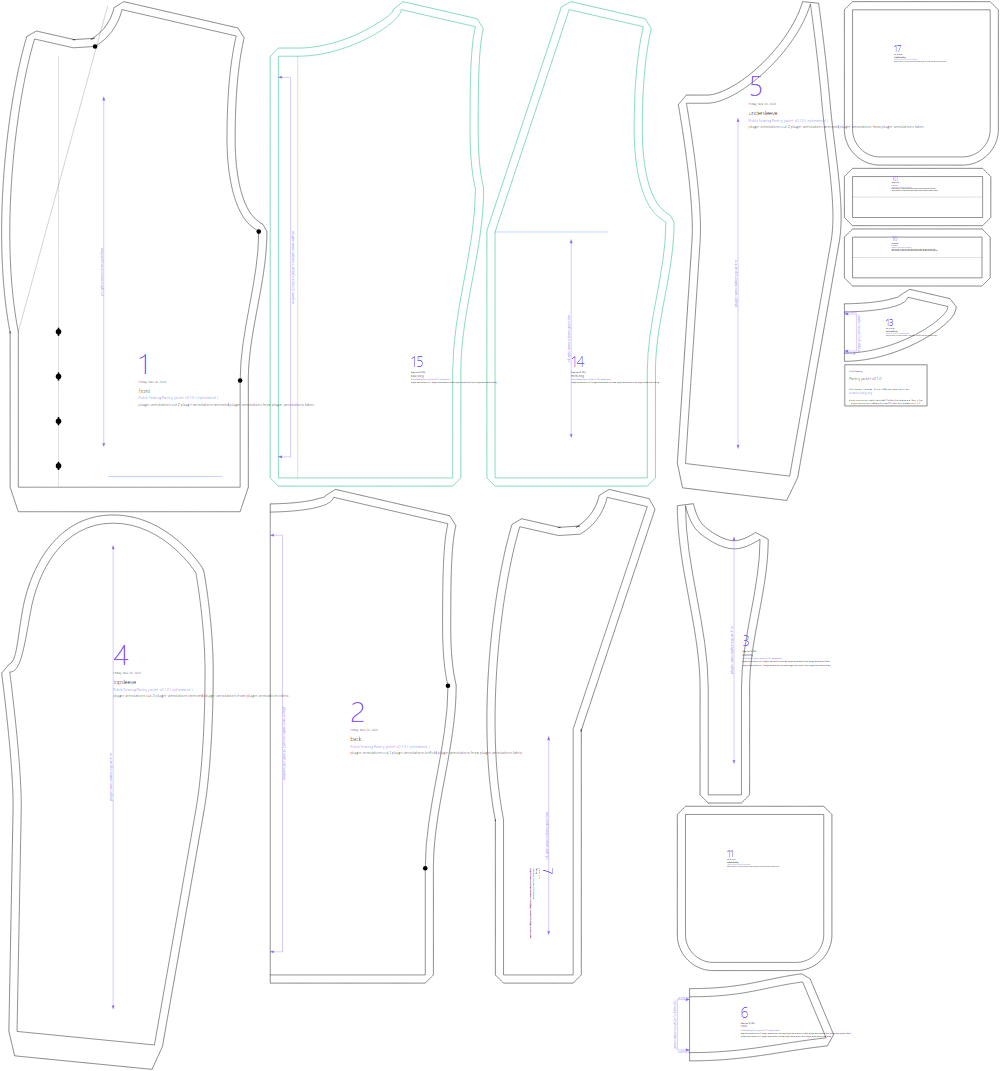
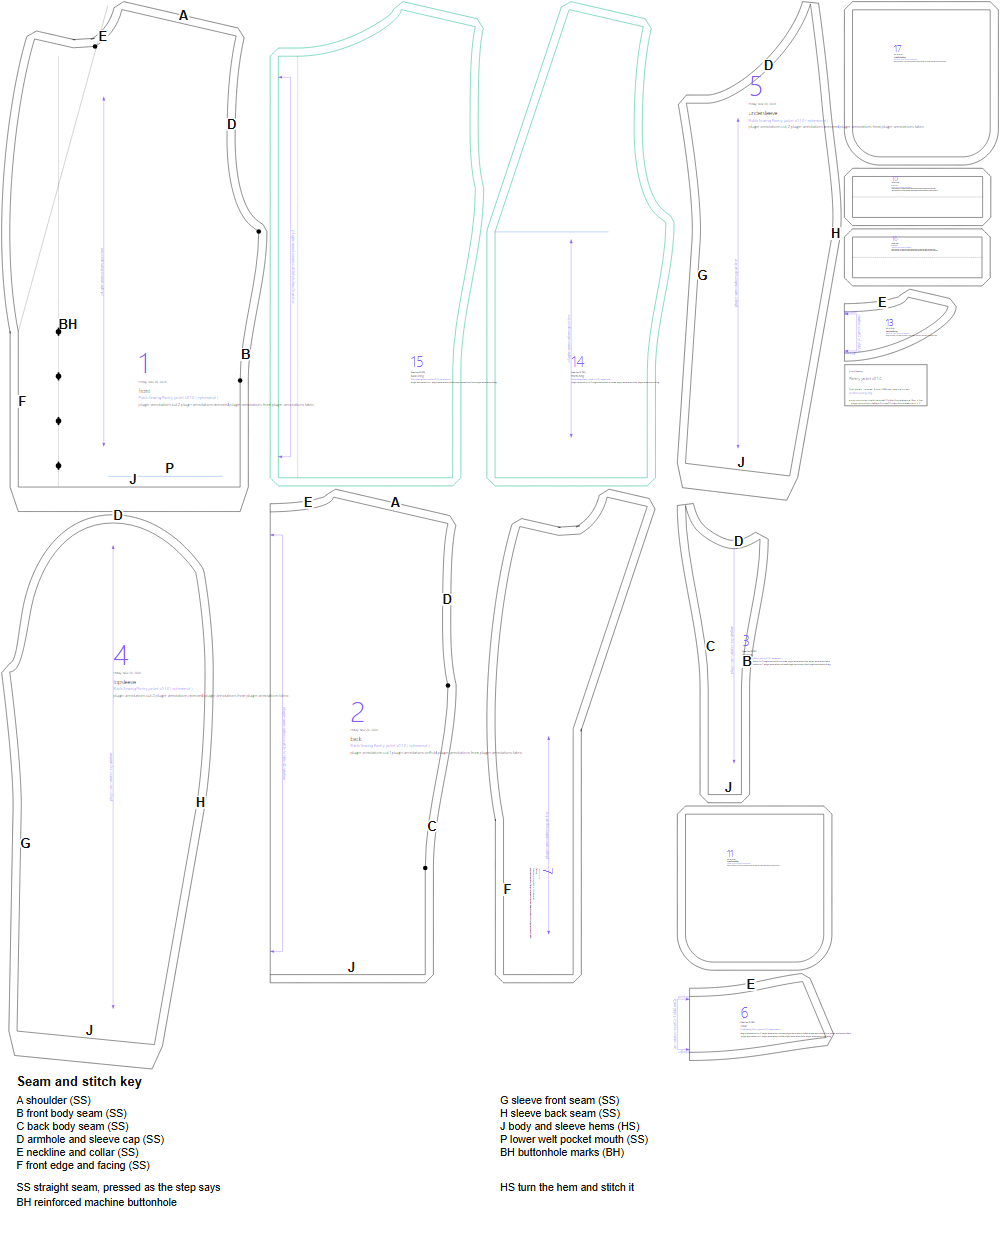
Map the pantry jacket: piece numbers, seam codes and stitch key
Codes follow drape/blouse.yaml's seams; buttonholes are now drafted, so BH is
anchored on the front's first buttonhole. construction.yaml holds only the
sewing order, matching the brief's rewritten numbered steps.

diff --git a/designs/pantry-jacket/BRIEF.md b/designs/pantry-jacket/BRIEF.md
@@ -28,12 +28,18 @@ The inherited jacket has a shaped side body and a cut-on-fold back, but its back
 
 ## Pieces
 
-Front, whole back, side body, facing, collar, top and under sleeves, lower welt and pocket bag, and the inherited lining pieces.
+Front (1), whole back (2), side body (3), top and under sleeves (4, 5), collar (6), facing (7),
+lower welt (10) and pocket bag (11), back-neck facing (13), and the inherited lining: front and
+back lining (14, 15) with an inside welt (16) and bag (17). The letters are the codes on the
+pattern map; Vincent gives no sewing order, so this one is ours.
 
 ## Construction
 
-1. Mark the two forepart welt mouths and four button stations. Make the welts and pocket bags while the fronts are flat; press and check both mouths align.
-2. Join each forepart to its side body, then the side bodies to the whole back. Sew the shoulders and press the long seams.
-3. Assemble and apply the facing and collar. Sew each two-piece sleeve, check its pitch against the armhole marks, and set it in.
-4. Assemble and attach the inherited lining, leaving an opening to turn the jacket; close that opening after turning and pressing.
-5. Finish the straight hem, work the four buttonholes and attach the buttons. For a washable cotton version, use the source's lightweight lining and sew buttons so they can be replaced.
+1. Mark the welt mouths P on the fronts (1). Make the lower welts (10) and pocket bags (11) while the fronts are flat; press and check that both mouths align.
+2. Join each front (1) to its side body (3) at B, then the side bodies to the whole back (2) at C. Press the seams open.
+3. Sew the shoulders A of the fronts (1) and back (2), and press them open.
+4. Sew the collar (6) to the neckline E of the fronts (1) and back (2), with the back-neck facing (13) behind it, then the facings (7) to the front edges F. Turn and press.
+5. Assemble each sleeve: join the top sleeve (4) to the under sleeve (5) at the front seam G and the back seam H, and press open.
+6. Set each sleeve (4, 5) into its armhole D across the front (1), side body (3) and back (2), checking its pitch against the armhole marks; press toward the sleeve.
+7. Make the lining from the front and back linings (14, 15), with the inside welt (16) and bag (17) if fitted. Attach it, leaving an opening to turn the jacket; close that opening after turning and pressing.
+8. Turn and stitch the hems J of the body (1, 2, 3) and sleeves (4, 5). Work the four buttonholes BH on the fronts (1) and sew on the buttons. For a washable cotton version, use the source's lightweight lining and sew the buttons so they can be removed.
